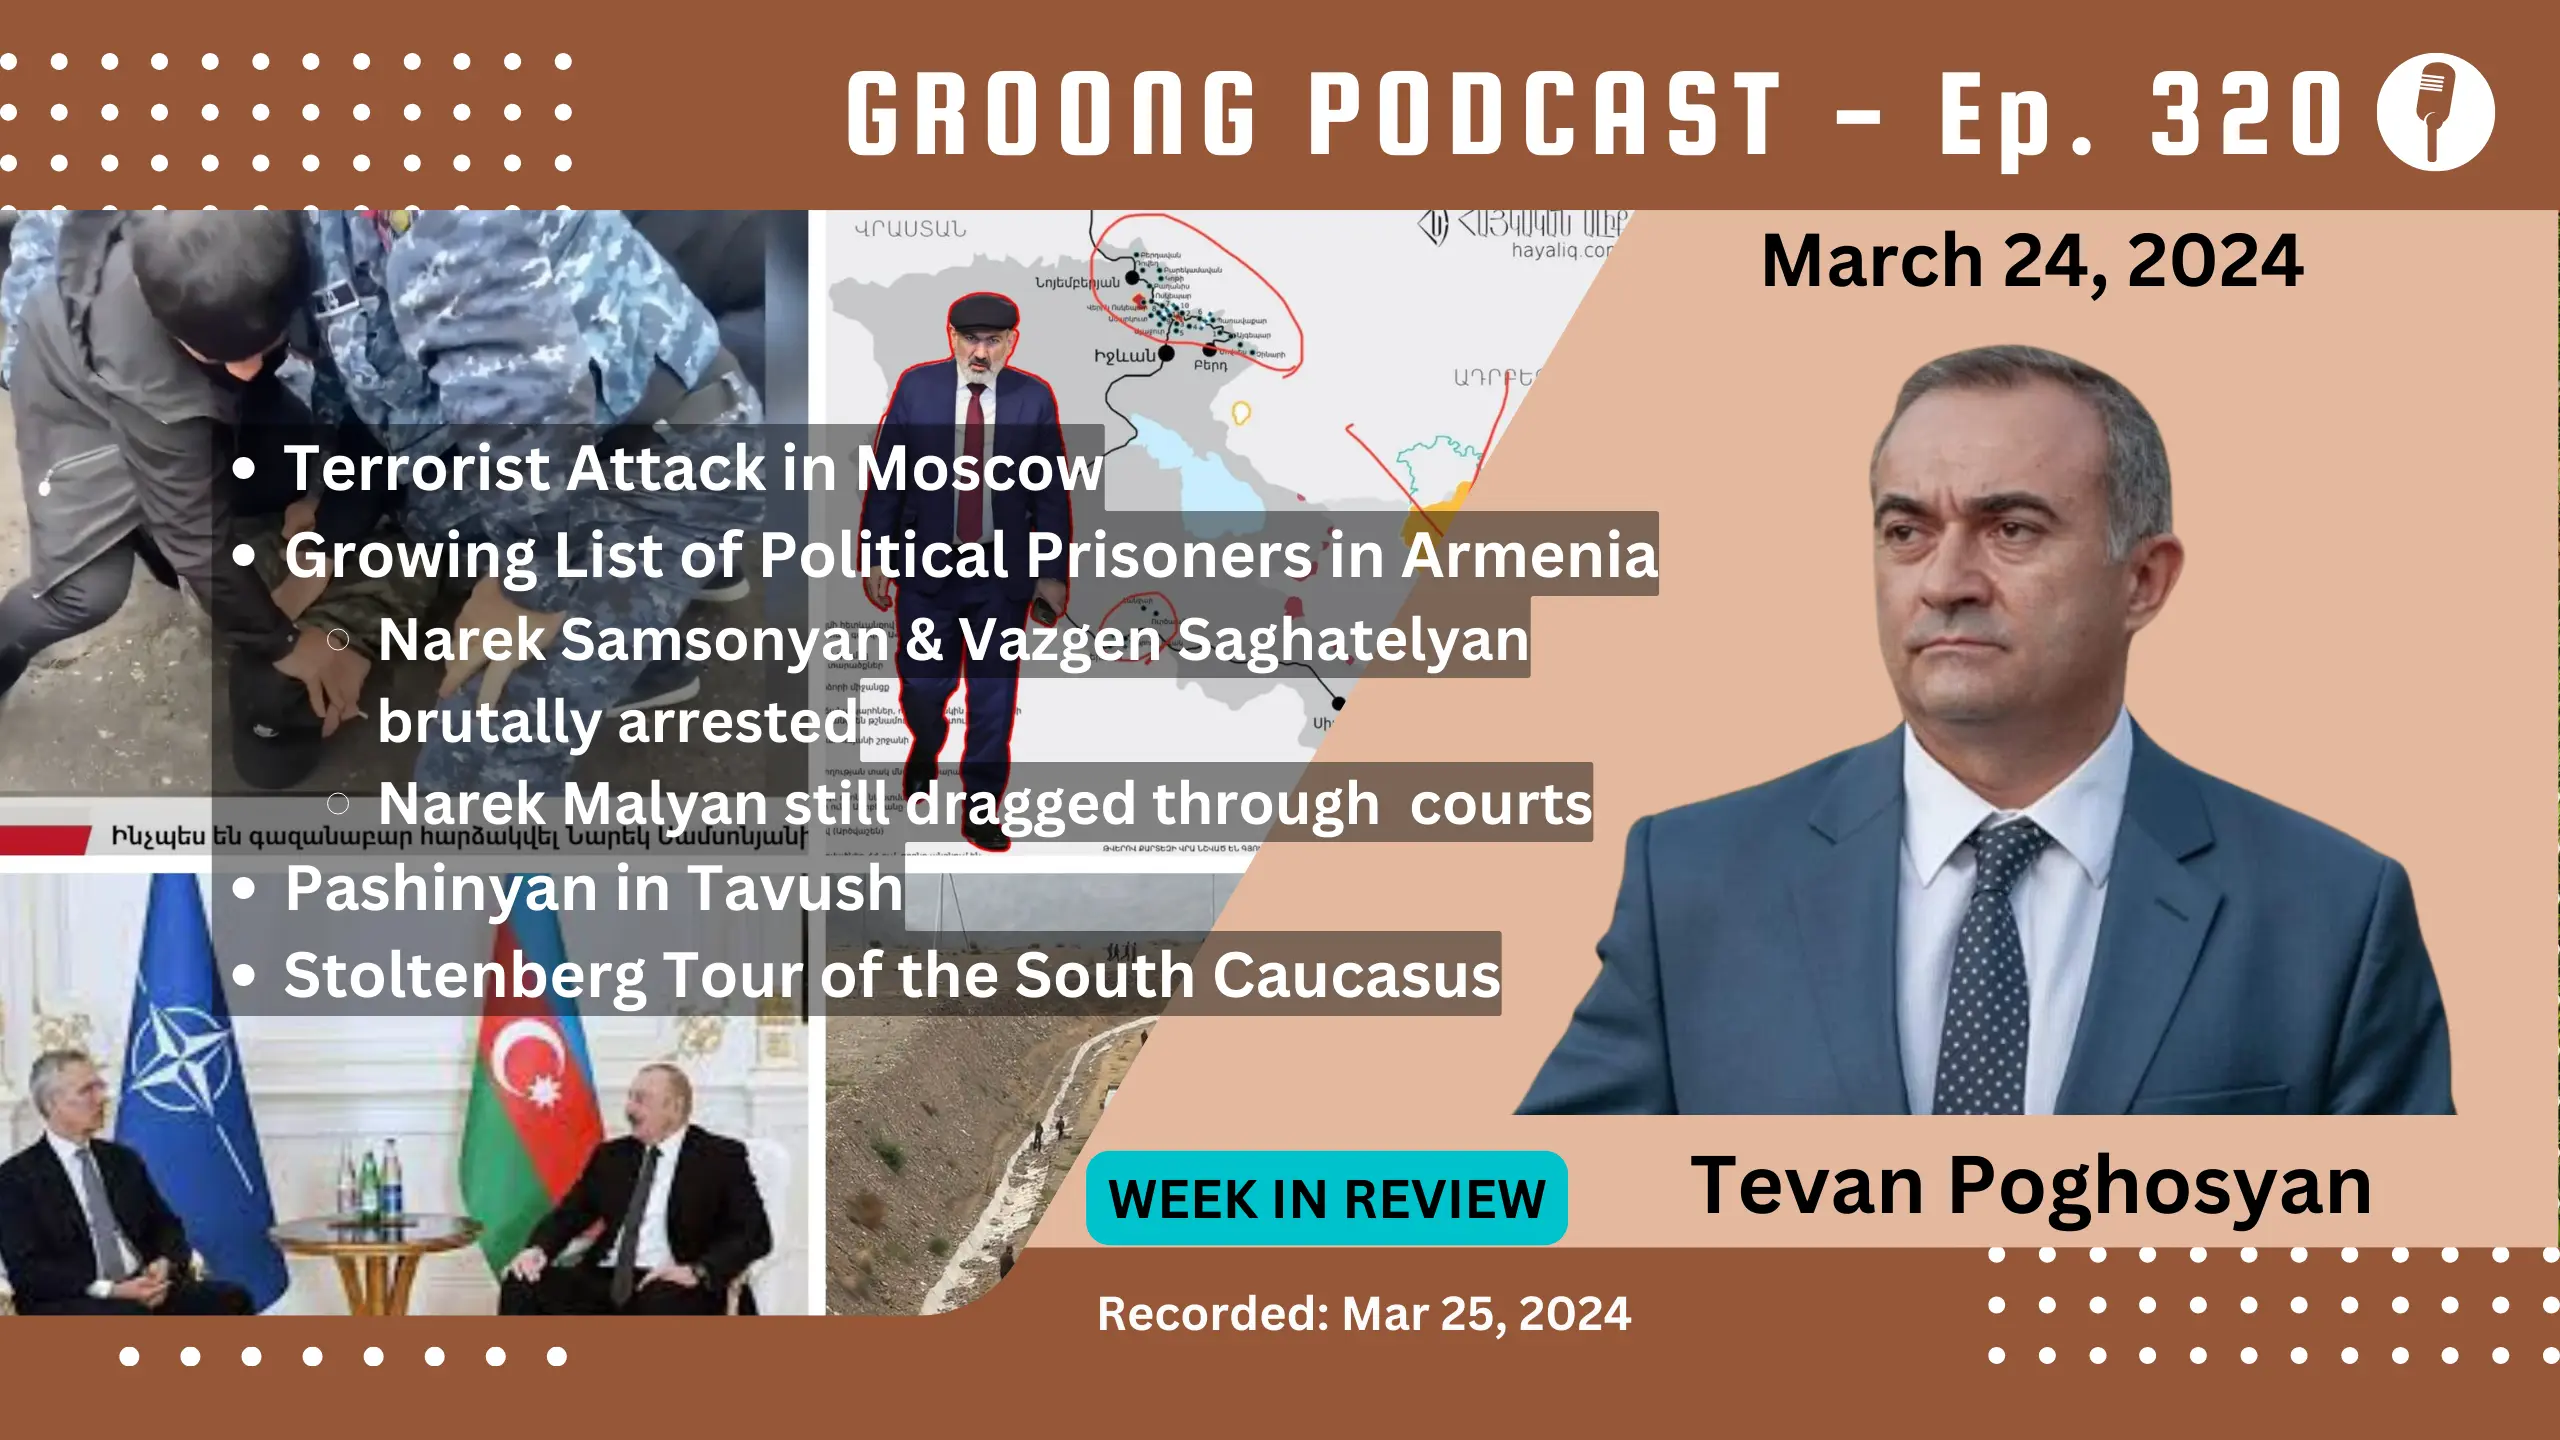
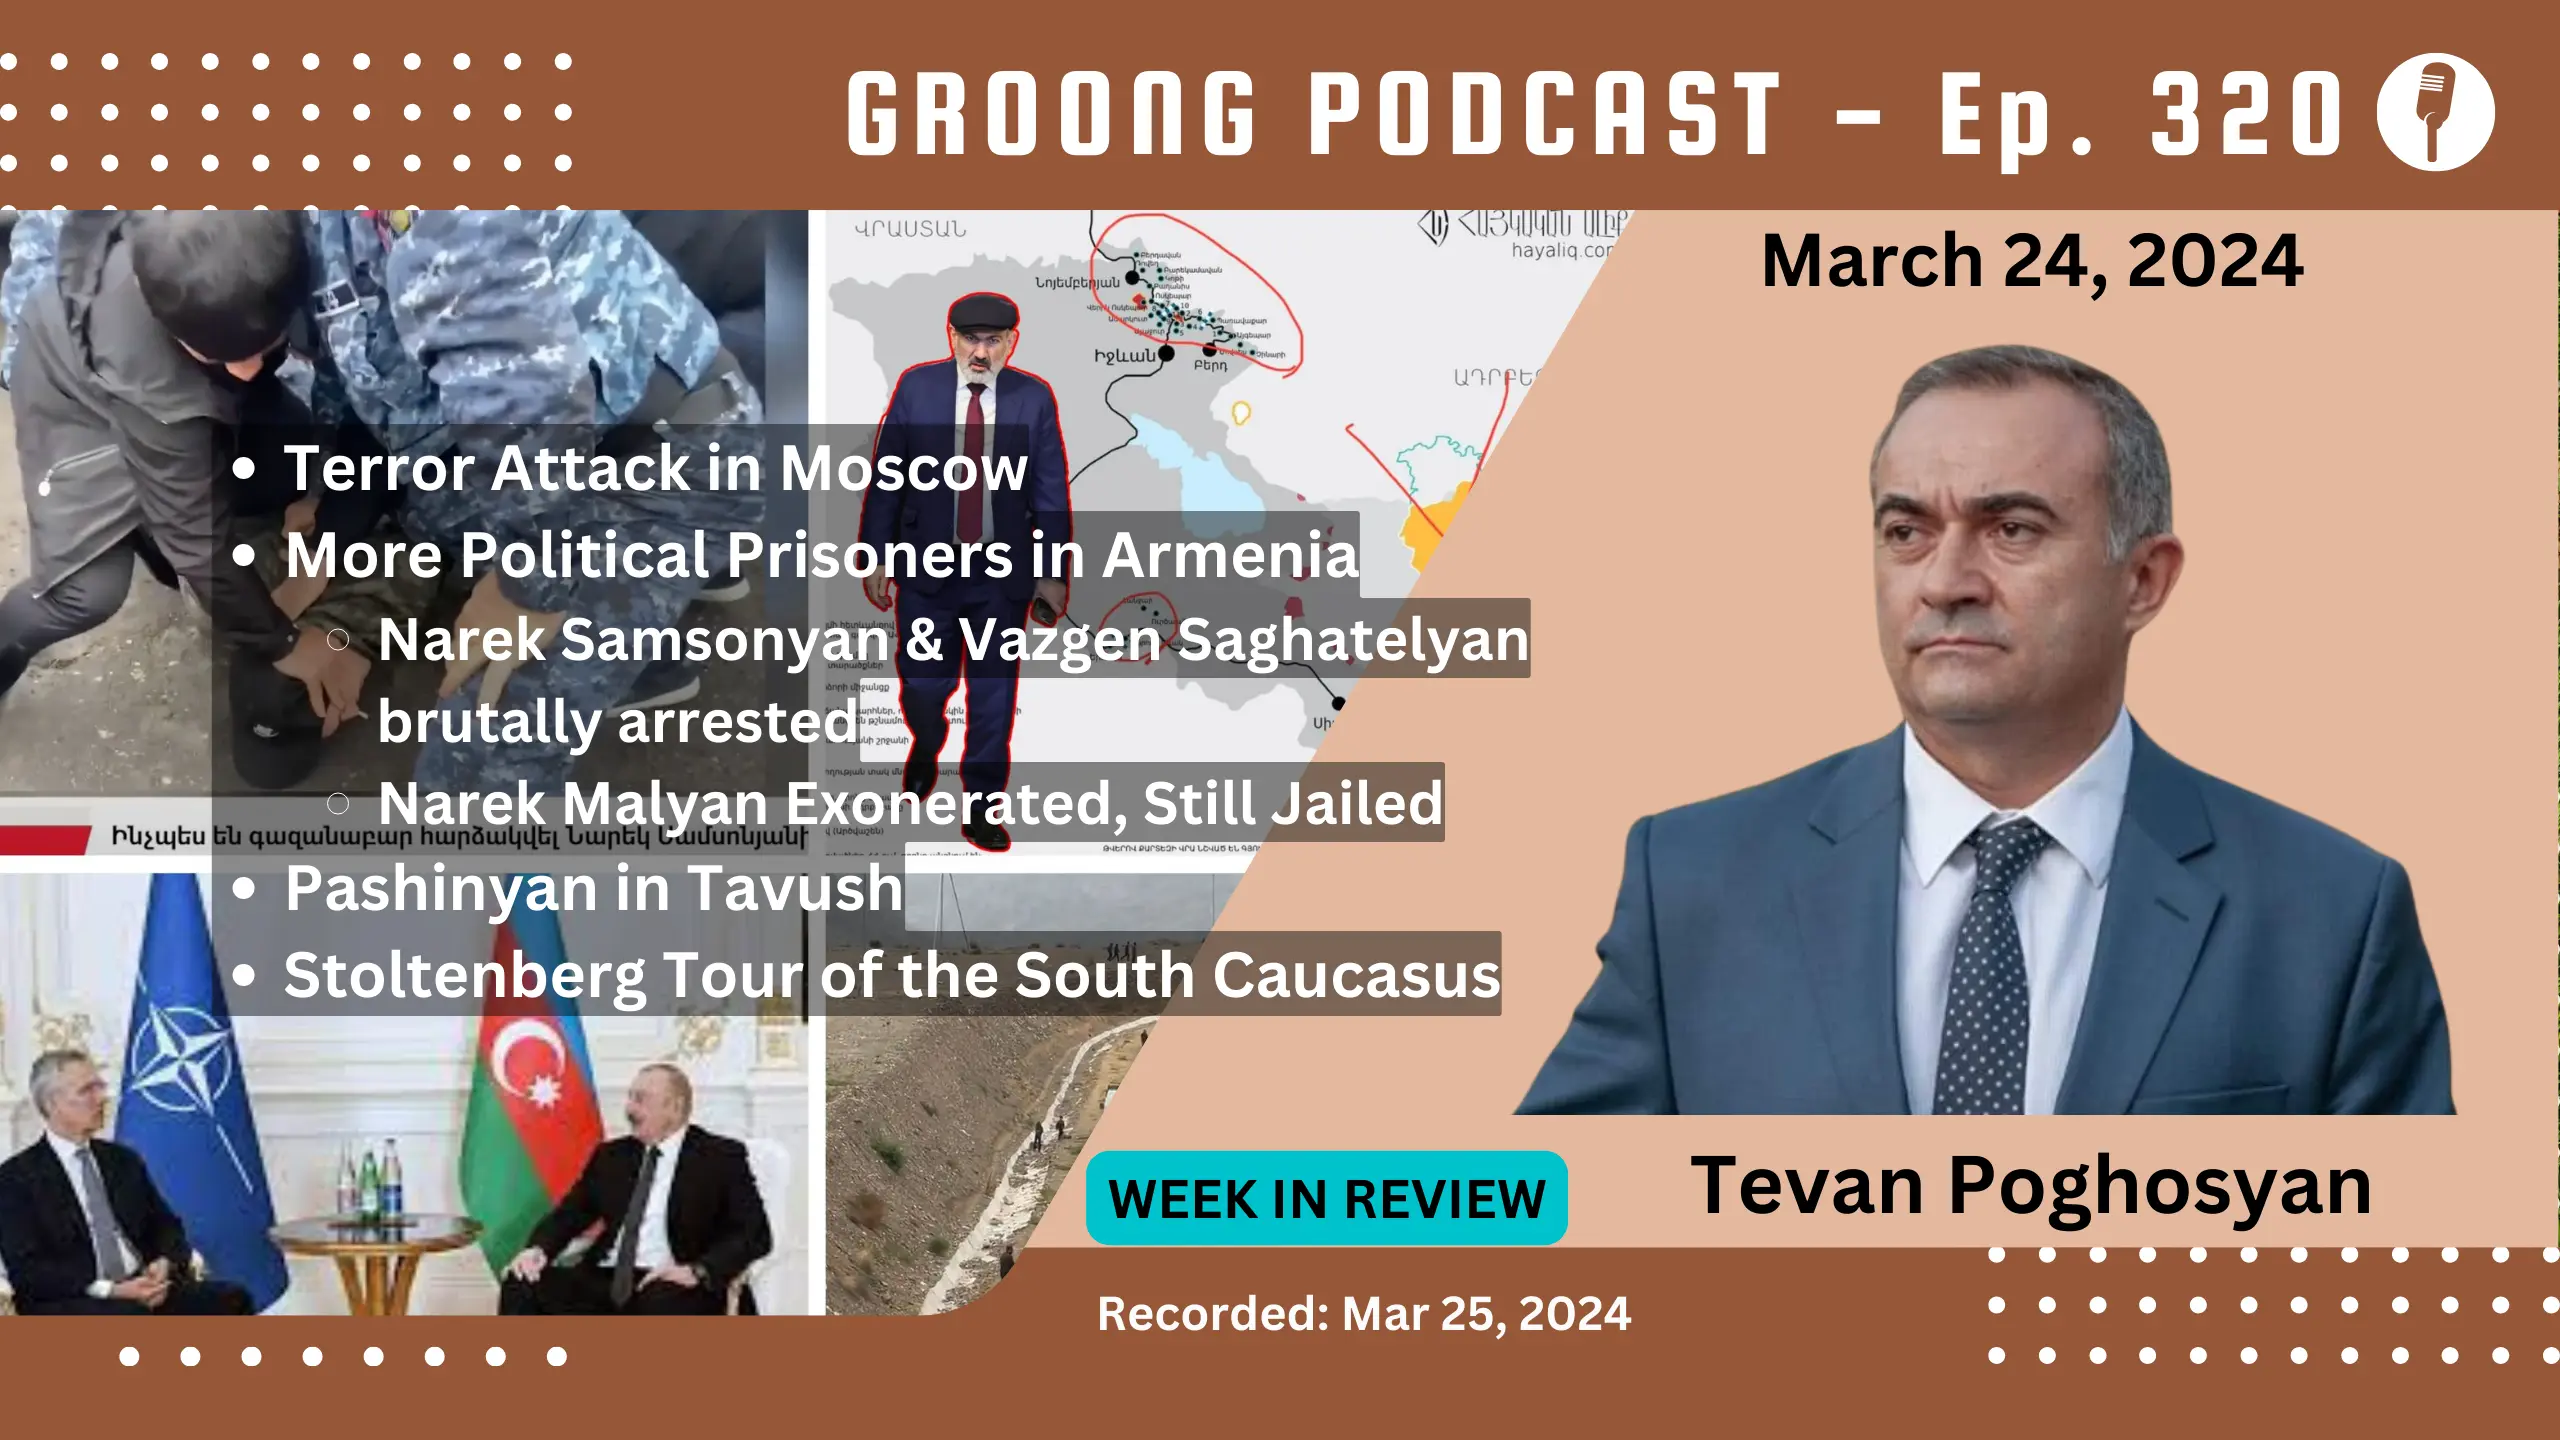
Go live EP 320

Changed region(s): [[0.0938, 0.2812, 0.6562, 0.4375], [0.3125, 0.5312, 0.625, 0.5938]]

diff --git a/content/episode/320-tevan-poghosyan-political-prisoners-in-armenia-stoltenberg-in-south-caucasus-pashinyan-in-tavush.md b/content/episode/320-tevan-poghosyan-political-prisoners-in-armenia-stoltenberg-in-south-caucasus-pashinyan-in-tavush.md
@@ -1,11 +1,11 @@
 +++
 Date = 2024-03-25T00:30:00+04:00
-upcoming = true
+upcoming = false
 
-podcast_file = ""
-podcast_bytes = ""
-podcast_duration = ""
-youtube = ""
+podcast_file = "14774686-tevan-poghosyan-terrorist-strike-is-moscow-more-political-prisoners-in-armenia-pashinyan-in-tavush-stoltenberg-in-the-south-caucasus-ep-320-mar-24-2024.mp3"
+podcast_bytes = "36930993"
+podcast_duration = "2765"
+youtube = "Lq8z0gEYL4w"
 
 episode = "320"
 aliases = ["/320"]
@@ -35,17 +35,144 @@ Description = """
 * [Tevan Poghosyan](/guest/tpoghosyan)
 
 #### Topics:
-* Political Prisoners in Armenia
-    * Narek Samsonyan and Vazgen Saghatelyan brutally arrested
-    * Narek Malyan Still Jailed
-* Stoltenberg in the South Caucasus
+* Terror Attack in Moscow
+* Growing List of Political Prisoners in Armenia
+    * Narek Samsonyan & Vazgen Saghatelyan brutally arrested
+    * Narek Malyan still dragged through courts
 * Pashinyan in Tavush
+* Stoltenberg’s in the South Caucasus
 
 Episode 320 | Recorded: March 25, 2024"""
 
 +++
 
+## Terror Attack in Moscow
 
+On Friday night four terrorists attacked a concert hall in Moscow called the Crocus City Hall. At present the death toll [stands at](https://abcnews.go.com/International/4-gunmen-arrested-moscow-concert-attack-death-toll/story?id=108421072) 137, and is expected to rise. The gunmen opened fire on the audience and set the building on fire. Atrocities were also committed.
+
+The Islamic terrorist group ISIS claimed responsibility for the attack, but details remain sketchy. On Saturday, president Putin declared that the four gunmen were apprehended as they fled towards Ukraine, and claimed that an escape “window” was prepared for the gunmen across the border in Ukraine. After questioning the gunmen reportedly confessed to be Tajiks who had transited through Turkey before reaching their destination.
+
+At present there are reports that earlier in March the US had warned Russia of a potential strike, and [warned](https://www.nbcnews.com/news/us-news/us-warns-imminent-moscow-attack-extremists-urges-citizens-avoid-crowds-rcna142401) its citizens to avoid crowded areas until further notice.
+
+And also, the media outlet [TV Rain](https://rsf.org/en/independent-russian-tv-channel-dozdh-tv-rain-obtains-journalism-trust-initiative-certification) (Дождь - [Dozhd](https://www.youtube.com/channel/UCNgfzTHUaFqKxby9UKwZzwQ)), which is operated from exile and declared a “[foreign agent](https://www.reuters.com/business/media-telecom/russia-declares-media-outlet-tv-rain-foreign-agent-2021-08-20/)” in Russia, [quoted an anonymous eyewitness](https://am.sputniknews.ru/20240323/posolstvo-armenii-osudilo-novostnye-syuzhety-telekanala-dozhd-73752240.html) who claimed that the attackers spoke to each other in Armenian. The TV station later [apologized](https://armeniatoday.news/world-ru/726493/) in the wake of the Tajik terrorists’ confessions, which put Turkey squarely in the limelight of Russia’s scrutiny.
+
+So far as we know, there were at least two Armenians among the victims.
+
+**Questions:**
+* Where did the Armenian story come from on Dozhd?
+* The US and Russia continue to maintain a backchannel, to inform each other of potential terror attacks. Is it likely that Russia ignored US intel warnings about this attack?
+* How could Turkish and Russian intel miss something like this?
+
+
+## Political Prisoners Grow In Armenia
+
+### Narek Samsonyan and Vazgen Saghatelyan
+
+Two podcasters, Narek Samsonyan and Vazgen Saghatelyan were arrested Saturday morning, from their homes, in one of the most brutal ways possible. An entire law enforcement squad, some in civilian clothing while others in uniforms and facemasks, [smashed](https://www.youtube.com/watch?v=1inK1X9rxL4) Narek Samsonyan to the ground, pushing his face on the asphalt. 
+
+Again, both of them were arrested from their homes and they did not appear to resist the arrest. Even some of the Moscow terrorists seem to have received a less violent treatment. 
+
+So what was their crime? Terrorism? Murder? Rape? Corruption?
+
+It just so happens that their podcast, which is critical of Pashinyan, is getting extremely popular nowadays. And we have to warn you, they sometimes resort to strong language. What did they call him that triggered Pashinyan? Was it “son of a bitch”? 
+
+Later in the day, when the authorities [provided](https://www.facebook.com/ArmInvestigative/posts/pfbid02JZbt5fbx3XxkxQA6TFJqfH2L2QDX8ZCHRGJqw5wM4tQi1EEWKgDtBgenDC2T6NmBl) a clarification and “smoking gun evidence”, they apparently referred to the [Imnemnimi podcast](https://www.youtube.com/live/DbgMXXjii3s?si=JEpV2vVEpgE14zAg) Episode 83 of March 20, the segment between 00:10 and 00:50 minutes. We weren’t able to find anything in those segments other than calling a spade a spade.
+
+But officially, it seems that the crime is “hooliganism”, apparently conducted via Youtube. So we asked ChatGPT, you know the one that passed the bar exam, what is hooliganism:
+
+
+    _“Hooliganism in post-Soviet countries typically refers to acts of violence, vandalism, or disorderly conduct, often associated with football (soccer) matches or other large public gatherings. These laws are aimed at maintaining public order and safety, combating hooligan behavior that can lead to property damage, injuries, or even fatalities.”_
+
+Apparently, the prosecutors and defense attorneys were arguing whether Youtube viewers have the agency to simply change the channel or were viewers forced to experience this “public disorder”.
+
+**Questions:**
+* How can public order be disturbed (which is the implication for a hooliganism charge) by a Youtube live video?
+    * Did they call for violence? Did they commit illegal acts?
+* Where is the so-called  “civil society”?
+
+
+### Narek Malyan exonerated on one case, but still in jail on another
+
+Narek Malyan, an opposition activist, faces harassment from the government through frivolous prosecutions and pretrial detention. 
+
+One of his cases, for which he is in detention now, involves his Facebook posts following the handover of Artsakh after the 1-day war in September 2023. 
+
+Another case, the “[Ceaușescu case](https://eng.kavkaz-uzel.eu/articles/54815/)”, saw him [charged](https://www.tert.am/en/news/2021/02/27/malyan/3537834) for public calls to violence, because Malyan organized a “futuristic” staging of Nicolae Ceaușescu's execution during protests. Despite being exonerated by first instance courts in 2023, authorities appealed the decision. This week, the court of appeals [upheld](https://www.aravot.am/2024/03/20/1406966/) his exoneration. 
+
+Despite this, Malyan remains detained on what appears to be another frivolous charge. Diplomatic responses to questions about political prisoners in Armenia often evade clear acknowledgment of such cases.
+
+Western ambassadors normally provide very diplomatic and evasive answers when it comes to political prisoners in Armenia. Famously, when former EU ambassador Andrea Wiktorin was questioned about this, in a conference where the Armenian opposition was prevented from attending, as protesters were chanting outside, Wiktorin proceeded to praise Armenia’s “democracy”. 
+
+And apparently we don’t have a single person in Armenia whom the west clearly believes is a political prisoner.
+
+**Questions**:
+* Are you familiar with the case of Narek Malyan? Do you believe there are political prisoners in Armenia? 
+* How is Pashinyan getting away with this? Where are the condemnations from Western embassies? Why do you think western embassies are so hesitant to call him out?
+
+
+## Fearmongering by Pashinyan and Repercussions
+
+### Pashinyan Tavush Visit
+
+Pashinyan visited Tavush. He took with him this cutout piece of plastic he calls Armenia.
+
+![Armenia in Swiss Cheese](/img/episode/320/nikol-map.webp "Armenia in Swissh Cheese")
+
+He spoke to the residents of the 4 villages that Azerbaijan wants ceded immediately. Reportedly, they were very tense discussions. Despite the meetings lasting more than 3 hours, the Pashinyan team finally released an [edited video](https://www.youtube.com/watch?v=gHe-ucjDCtY) of segments from that meeting, only about 40 minutes in length. 
+
+
+Apparently all the emotional and controversial stuff was edited out, but from what we understood of the videos released by his team, he continued to make the case for ceding those villages. 
+
+He said:
+* That Armenia will receive a strong “invisible” wall of legitimacy
+* There will be war “by the end of the week” if we don’t do this. 
+* There were media reports, we don’t have this on video, that he also raised the specter of Turkey attacking Armenia from the East in tandem with Azerbaijan.
+* If war is allowed to happen, he indicates that the outcome will be known. 
+
+He also said that everyone would be handsomely compensated.
+
+**Questions**:
+* What are the risks of Armenia pulling back from the territories that Pashinyan wants to give away? What is the “wall of legitimacy” that he is talking about?
+* Does Azerbaijan even recognize the territories beyond those 4 villages as Armenian?
+
+
+## Stoltenberg Tour
+
+This past week NATO SecGen Jens [Stoltenberg toured the South Caucasus](https://www.gmfus.org/news/stoltenberg-south-caucasus), probably timed to come on the heels of Putin’s new term in office. First stop was [Azerbaijan](https://www.azatutyun.am/a/32866386.html), then Georgia, then [Armenia](https://www.azatutyun.am/a/32868701.html).
+
+In [Baku](https://www.nato.int/cps/en/natohq/opinions_223718.htm?selectedLocale=en) Stoltenberg emphasized energy and security cooperation with NATO as key issues, completely ignoring Artsakh or even the recent so-called “elections” where Aliyev got 200% of the vote. In [Tbilisi](https://www.nato.int/cps/en/natohq/opinions_223793.htm?selectedLocale=en), Stoltenberg amped up his anti-Russian rhetoric and partnership with NATO. In [Yerevan](https://www.nato.int/cps/en/natohq/opinions_223795.htm?selectedLocale=en), still officially a member of CSTO and partner to Russia, it was all about “democracy”, “peace” and how Russia must not win in Ukraine. 
+
+In [Baku](https://www.nato.int/cps/en/natohq/opinions_223718.htm?selectedLocale=en):
+* Did not say a word about about human rights
+* Not a word about ethnic cleansing 
+* Not a word about rights of Artsakhtsis
+* Not a word about democracy or Aliyev’s fake “re-election”
+* He discussed “energy security” for NATO allies
+* He encouraged Azerbaijan to seize the opportunity to reach a lasting peace agreement with Armenia
+* He welcomed Azerbaijan’s support for Ukraine
+* He welcomed deeper relations of Azerbaijan with Turkey, and therefore NATO
+    * The day after Aliyev goes to Stepanakert and does a “Novruz” bonfire cleaning 
+
+In [Georgia](https://www.nato.int/cps/en/natohq/opinions_223793.htm?selectedLocale=en):
+* Expressed commitment to assisting with Georgia's path toward “greater democracy”
+* Noted on NATO’s 2008 declaration that Georgia would one day be a member state.
+
+In [Armenia](https://www.nato.int/cps/en/natohq/opinions_223795.htm?selectedLocale=en):
+* Expressed hope for a framework for closer NATO-Armenia cooperation
+* Praised Armenia for sending humanitarian aid to Ukraine (last year) and welcomed Pashinyan’s solidarity on Ukraine. He also highlighted that Putin must not be allowed to succeed.
+* Expressed support for Armenia’s sovereignty and territorial integrity
+* Expressed support for Armenia’s efforts to develop a “more independent foreign policy”, meaning “anti-Russian”
+* Expressed hope for the swift development of an Individually Tailored Partnership Program for Armenia.
+
+**Questions:**
+* Why was Stoltenberg touring the South Caucasus right after Putin’s re-election?
+* How did his messages differ from capital to capital?
+* Combining his various messages from the three capitals, what should we be hearing as his overall message from NATO? 
+
+
+## Topics from the Panelists
+* **Tevan**: Keep Artsakh in your minds and do not give up on it
+* **Hovik**: Western diplomats who do not acknowledge and defend political prisoners in Armenia
 
 # Wrap-up
 
